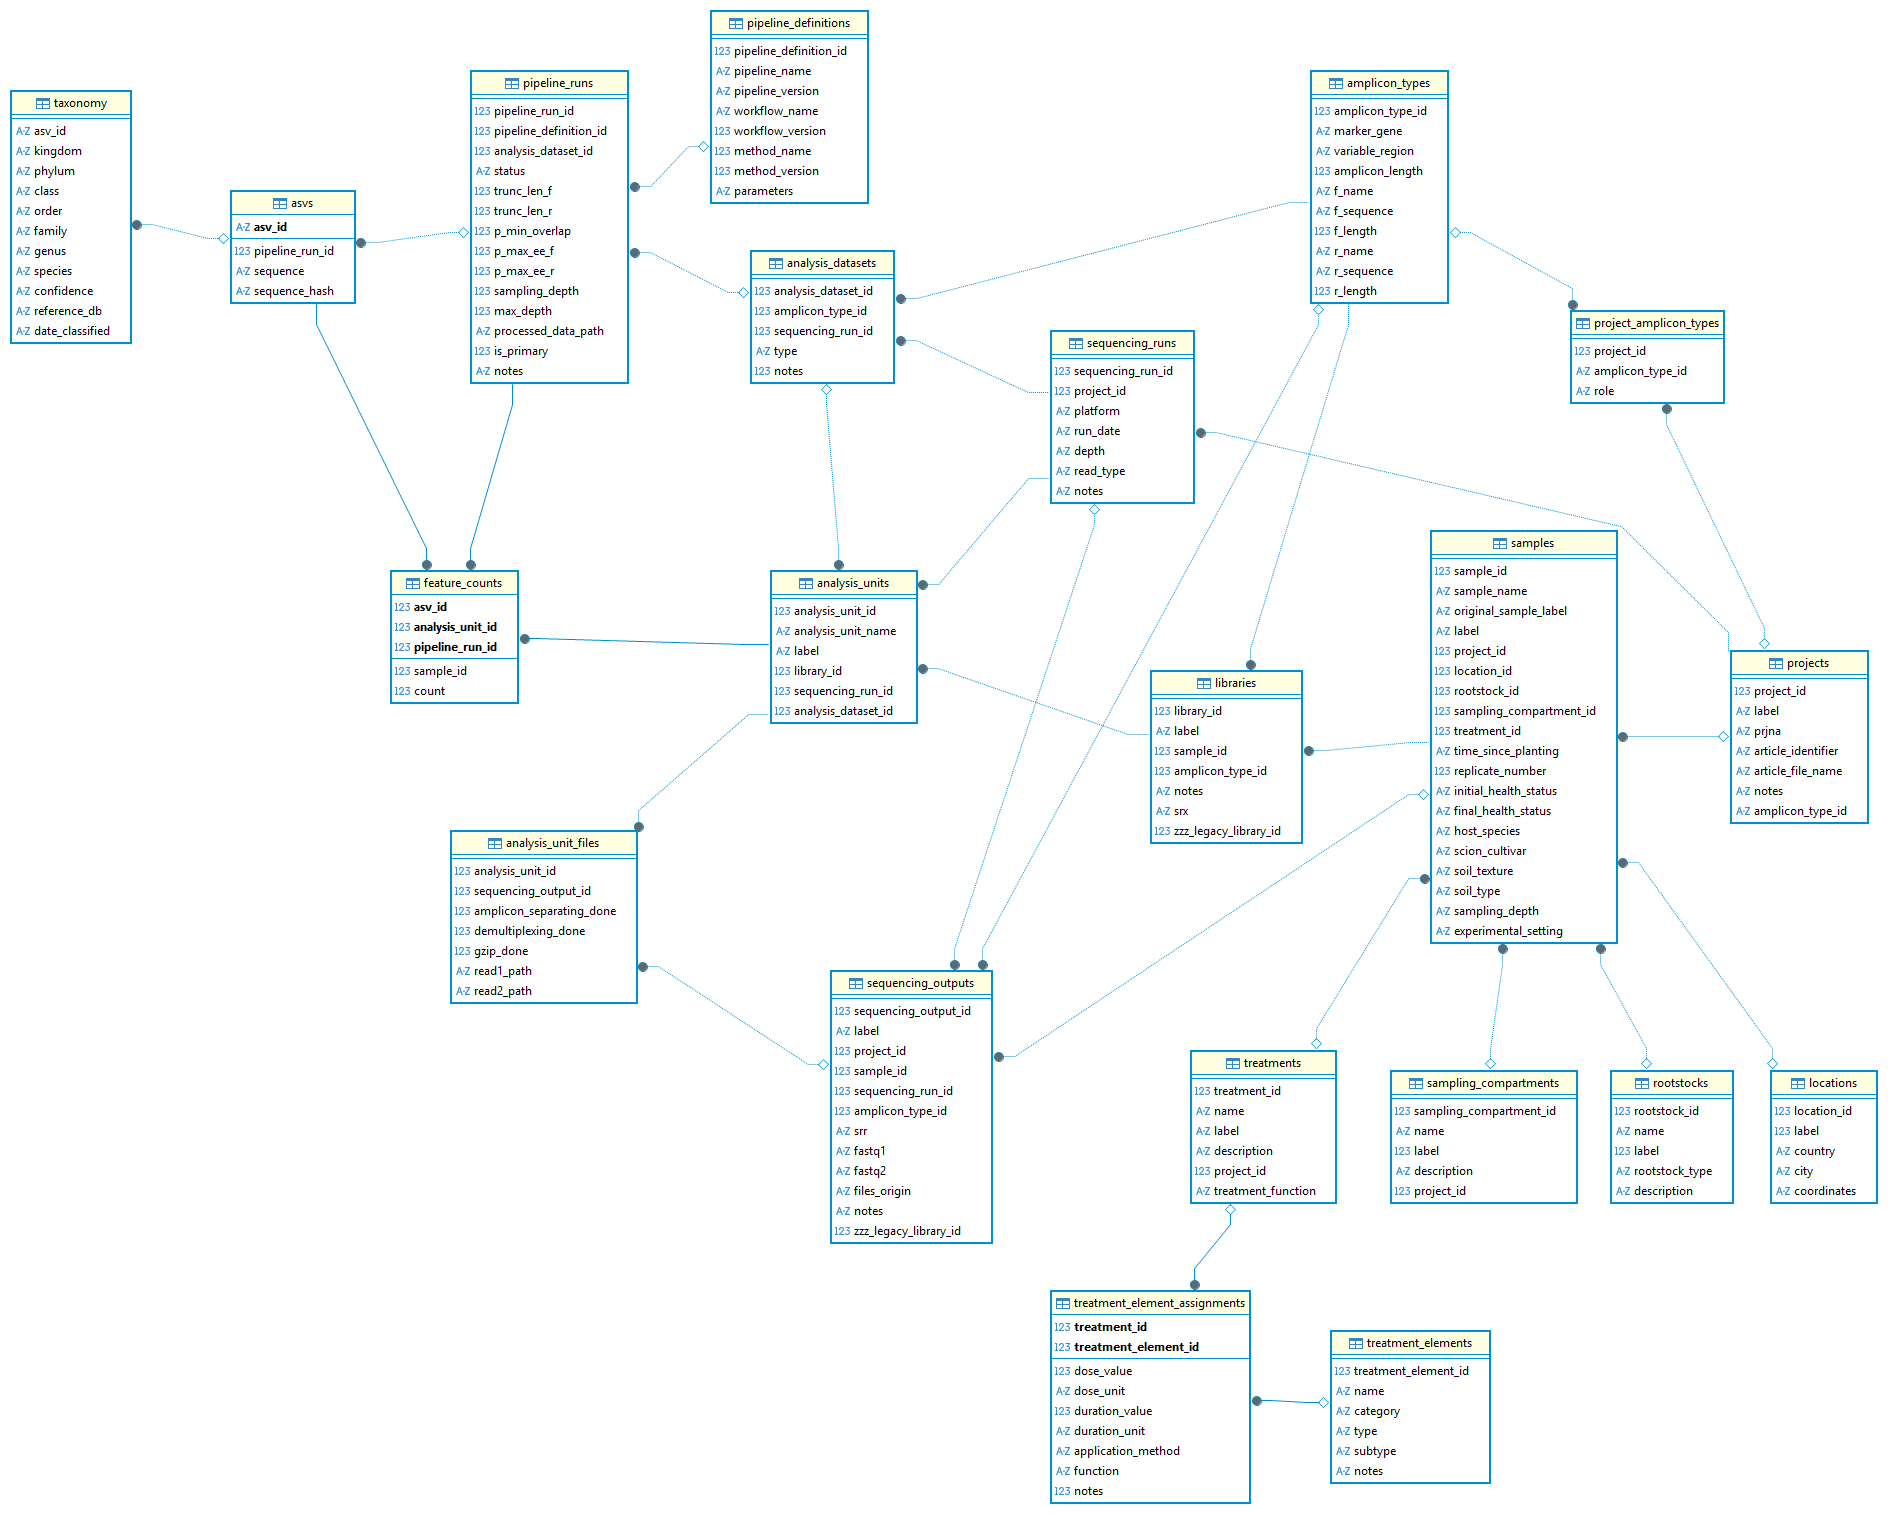
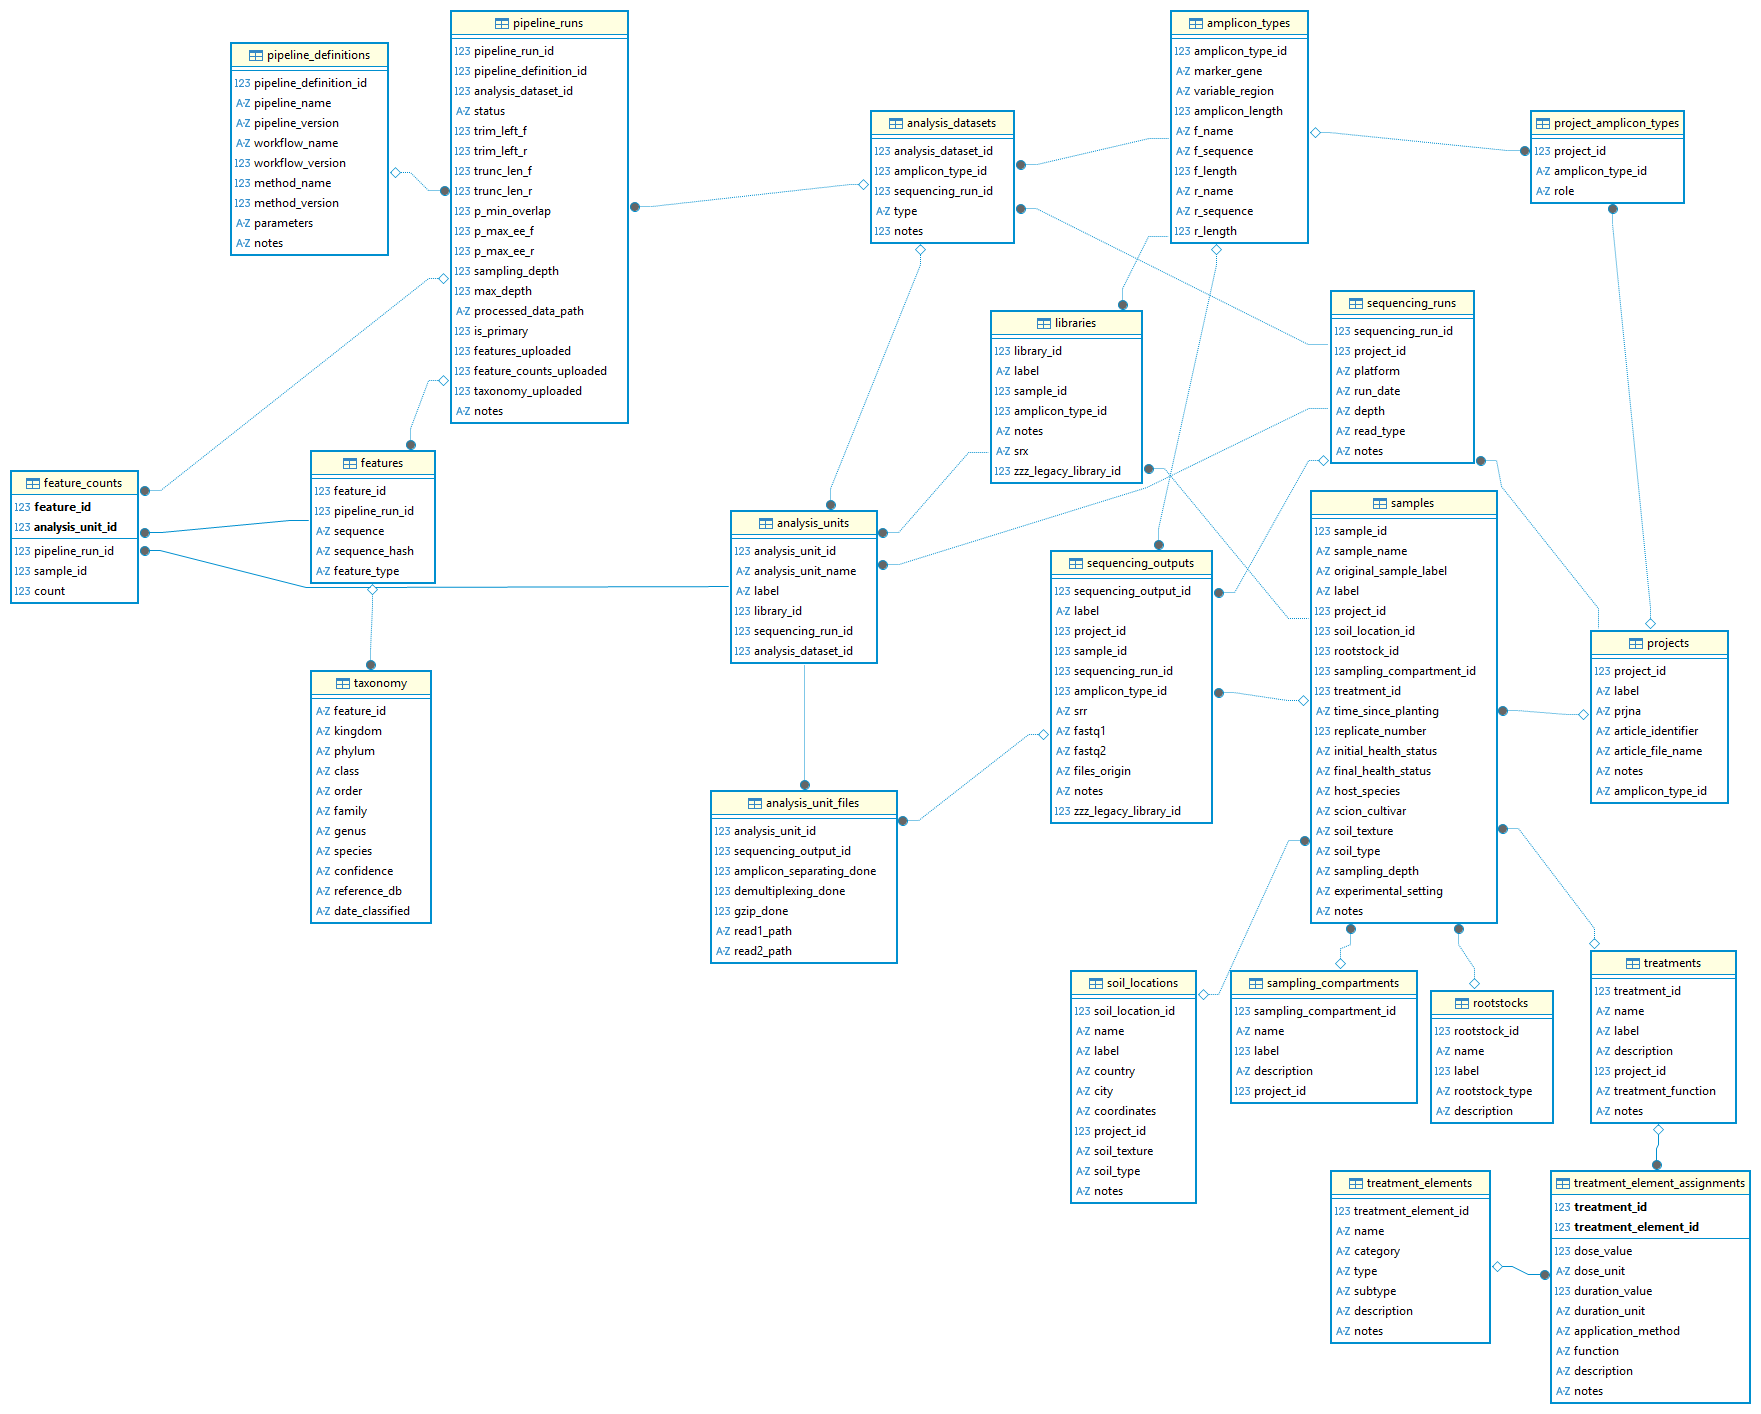
new erd

diff --git a/export_tables.py b/export_tables.py
@@ -20,6 +20,7 @@ SELECT DISTINCT
     au.analysis_dataset_id,
     lib.sample_id,
     s.sample_name,
+    p.project_id,
     p.label            AS project_label,
     tr.name            AS treatment_name,
     sc.name            AS compartment_name,
